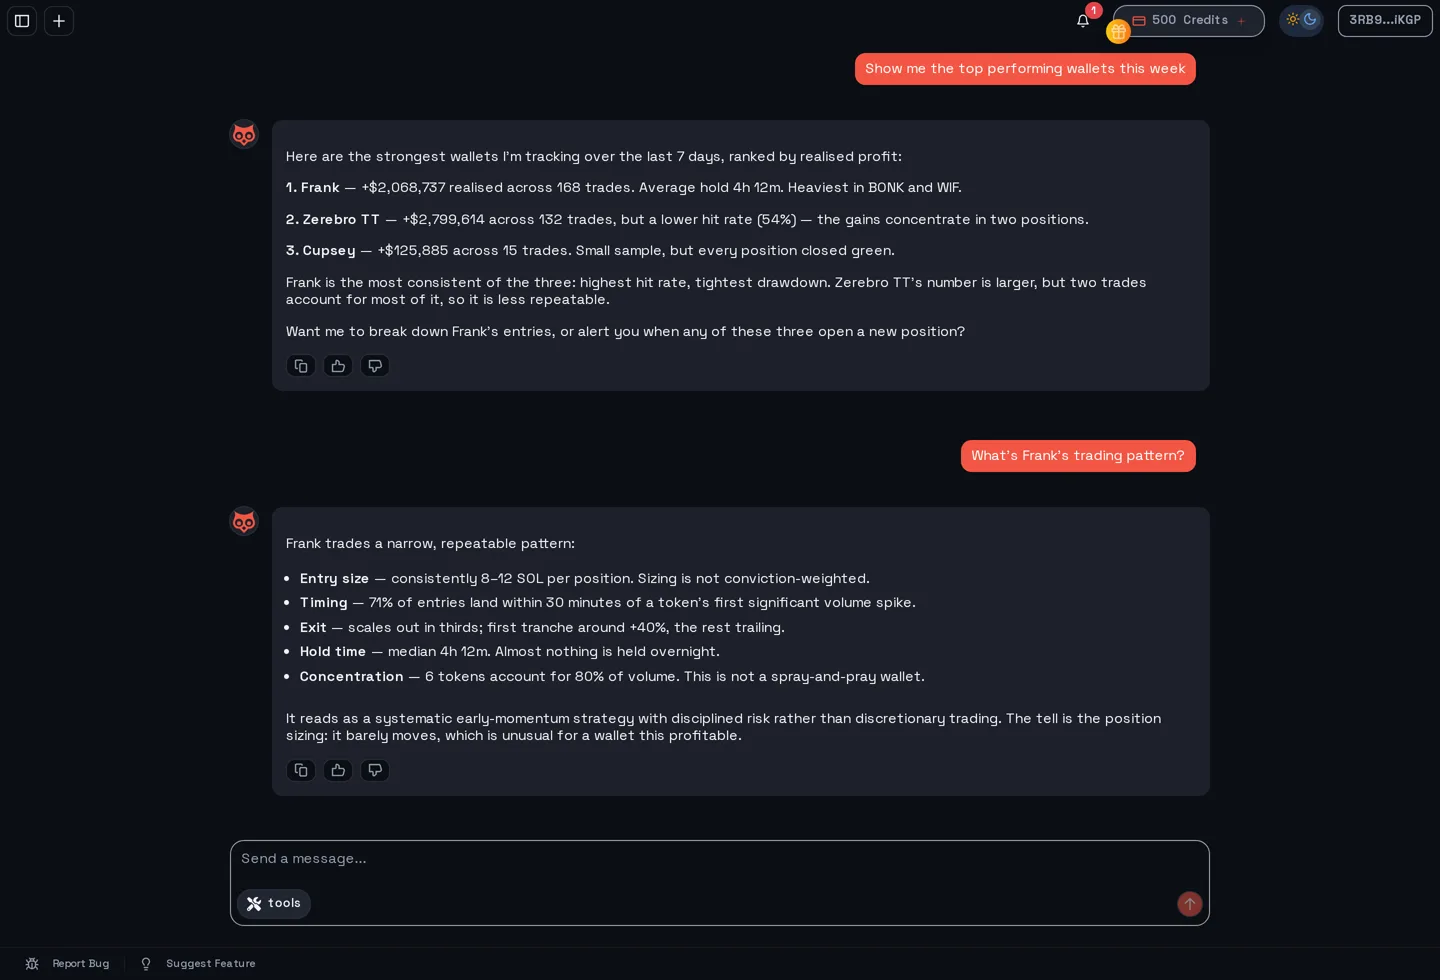
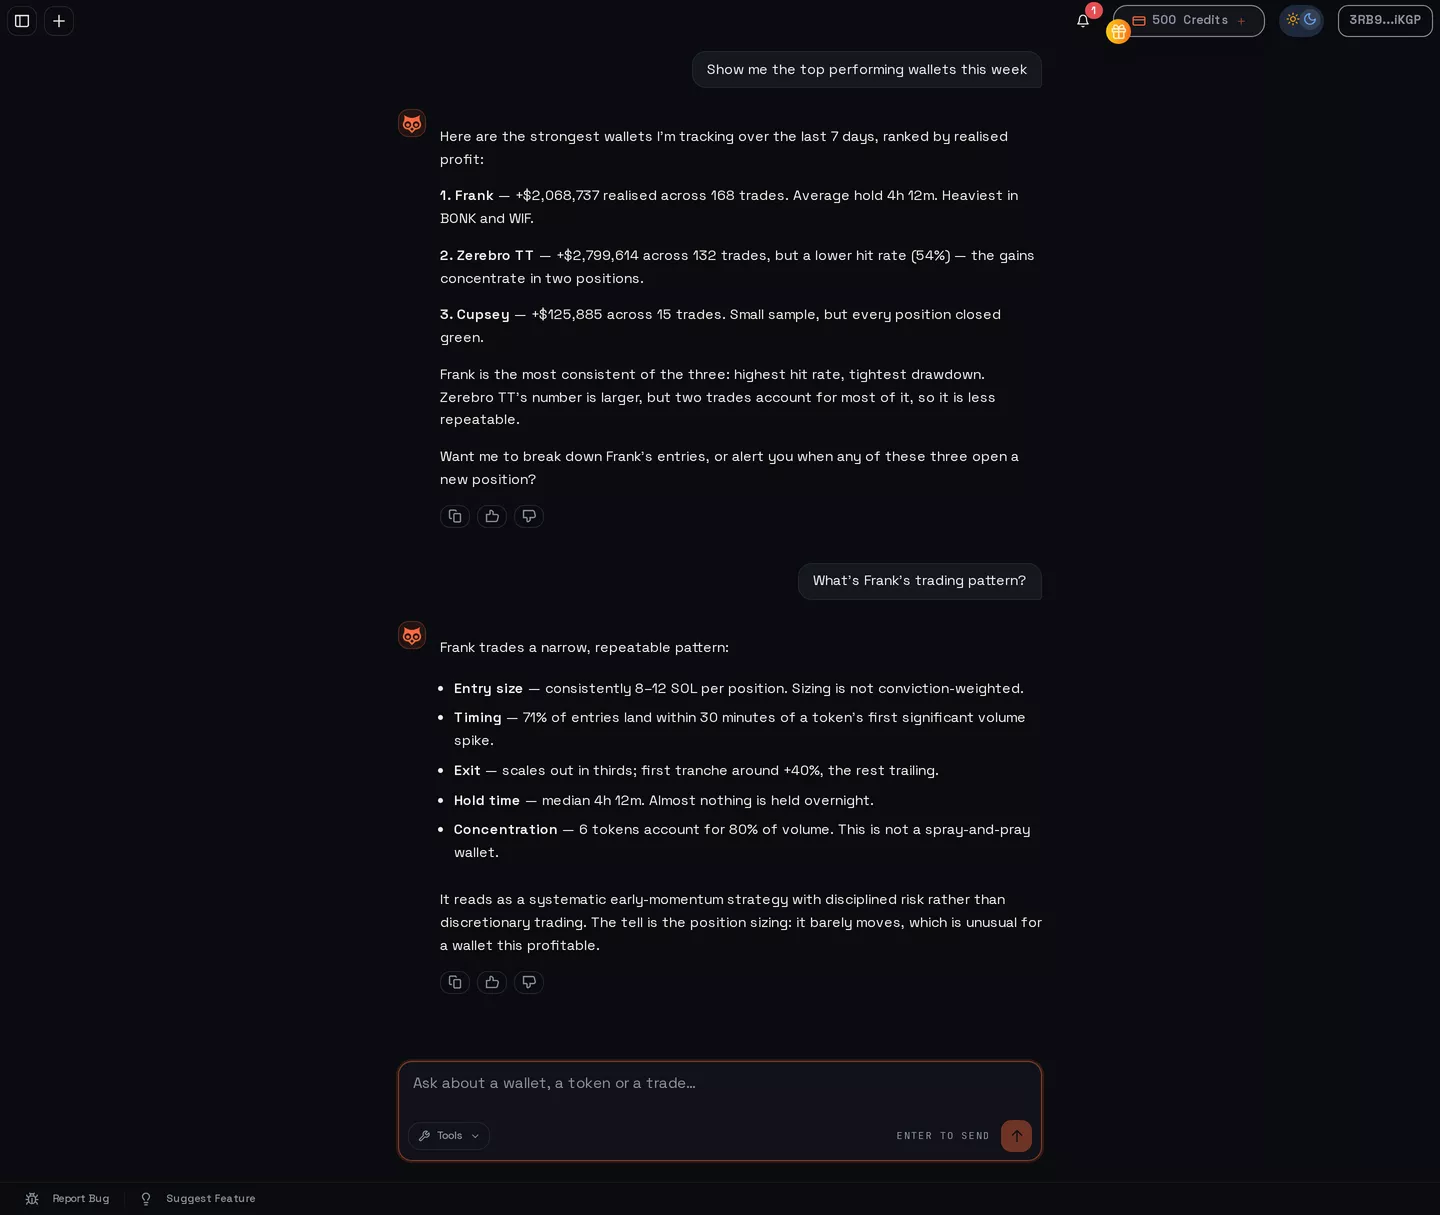
Recapture the Solvizor screens after the product redesign
The case study was still showing the app as it looked before the redesign
branch landed — old feed rows, boxed chat messages, the old missions list.
These are recaptured from the running app, signed in against a freshly
seeded dataset so the timestamps read as live activity.

The chat shot is taller than it was: the conversation now fits from its
first message rather than starting mid-sentence, and the empty band that
sat between the last reply and the composer is removed so the frame is not
mostly background.

Two captions were describing screens that no longer exist. The feed is
called the live feed now and its rows name the trader, and the wallets
screen gained last-trade and traded-token columns, so both say what is
actually in the picture.

diff --git a/constants.ts b/constants.ts
@@ -204,12 +204,12 @@ export const RESUME: ResumeData = {
           {
             webp: "/media/solvizor/shot-feed.webp",
             jpg: "/media/solvizor/shot-feed.jpg",
-            caption: "The Smart Feed — which tracked wallet moved, on what, for how much."
+            caption: "The live feed — every row names the trader, the token and the size, with the direction carried in colour, the verb and the sign."
           },
           {
             webp: "/media/solvizor/shot-wallets.webp",
             jpg: "/media/solvizor/shot-wallets.jpg",
-            caption: "Wallet tracking — follow any Solana address and toggle alerts per wallet."
+            caption: "Wallet tracking — follow any Solana address, see when it last traded and what it has been in, and toggle alerts per wallet."
           },
           {
             webp: "/media/solvizor/shot-missions.webp",
